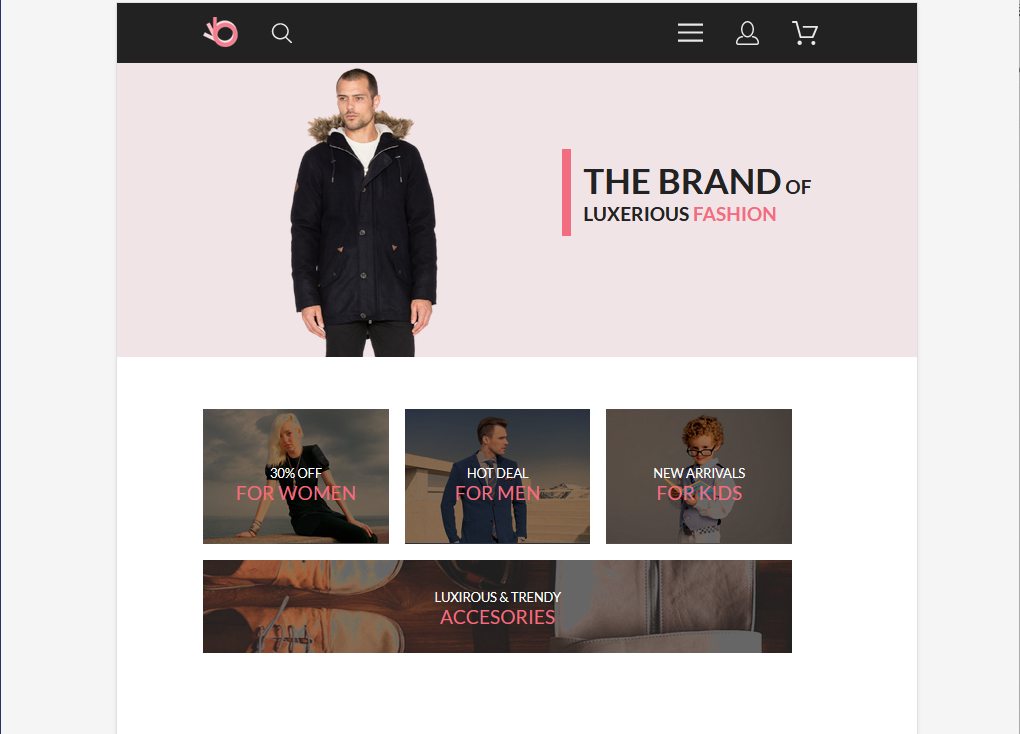
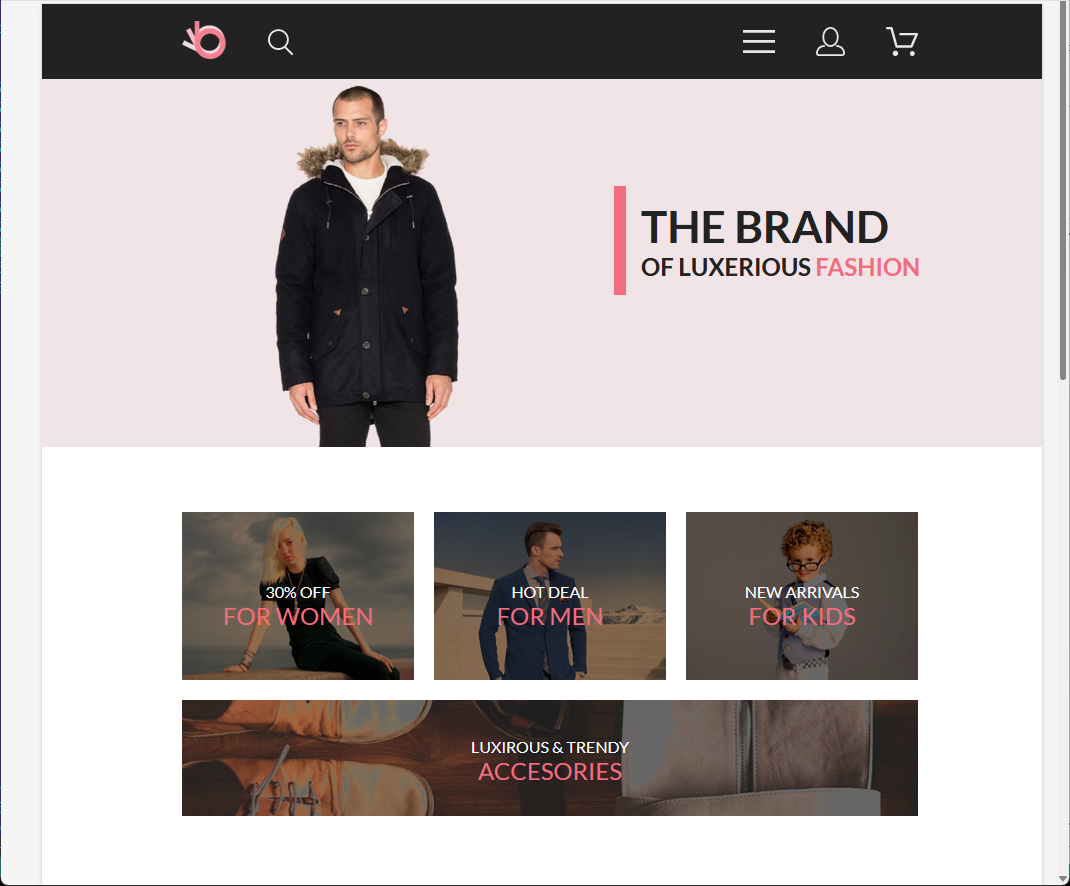
final commit2

diff --git a/README.md b/README.md
@@ -1,4 +1,5 @@
 # Основы веб-верстки HTML/CSS
+
 ## Урок 14. Семинар. Структура HTML5 и методология БЭМ
 
 ### Задание:
@@ -16,7 +17,11 @@
 
 ### Результат работы:
 
+- Текст на верхнем баннере исправил в соответствие с шаблоном.
+- В версии для планшета выыровнял карточки категорий
+
 #### Адаптивная верстка под мобильное устройство:
+
 ![Результат работы](result375_1.png)
 ![Результат работы](result375_2.png)
 ![Результат работы](result375_3.png)
@@ -25,7 +30,6 @@
 ![Результат работы](result375_6.png)
 ![Результат работы](result375_7.png)
 ![Результат работы](result375_8.png)
-
 
 #### Адаптивная верстка под планшет:
 
